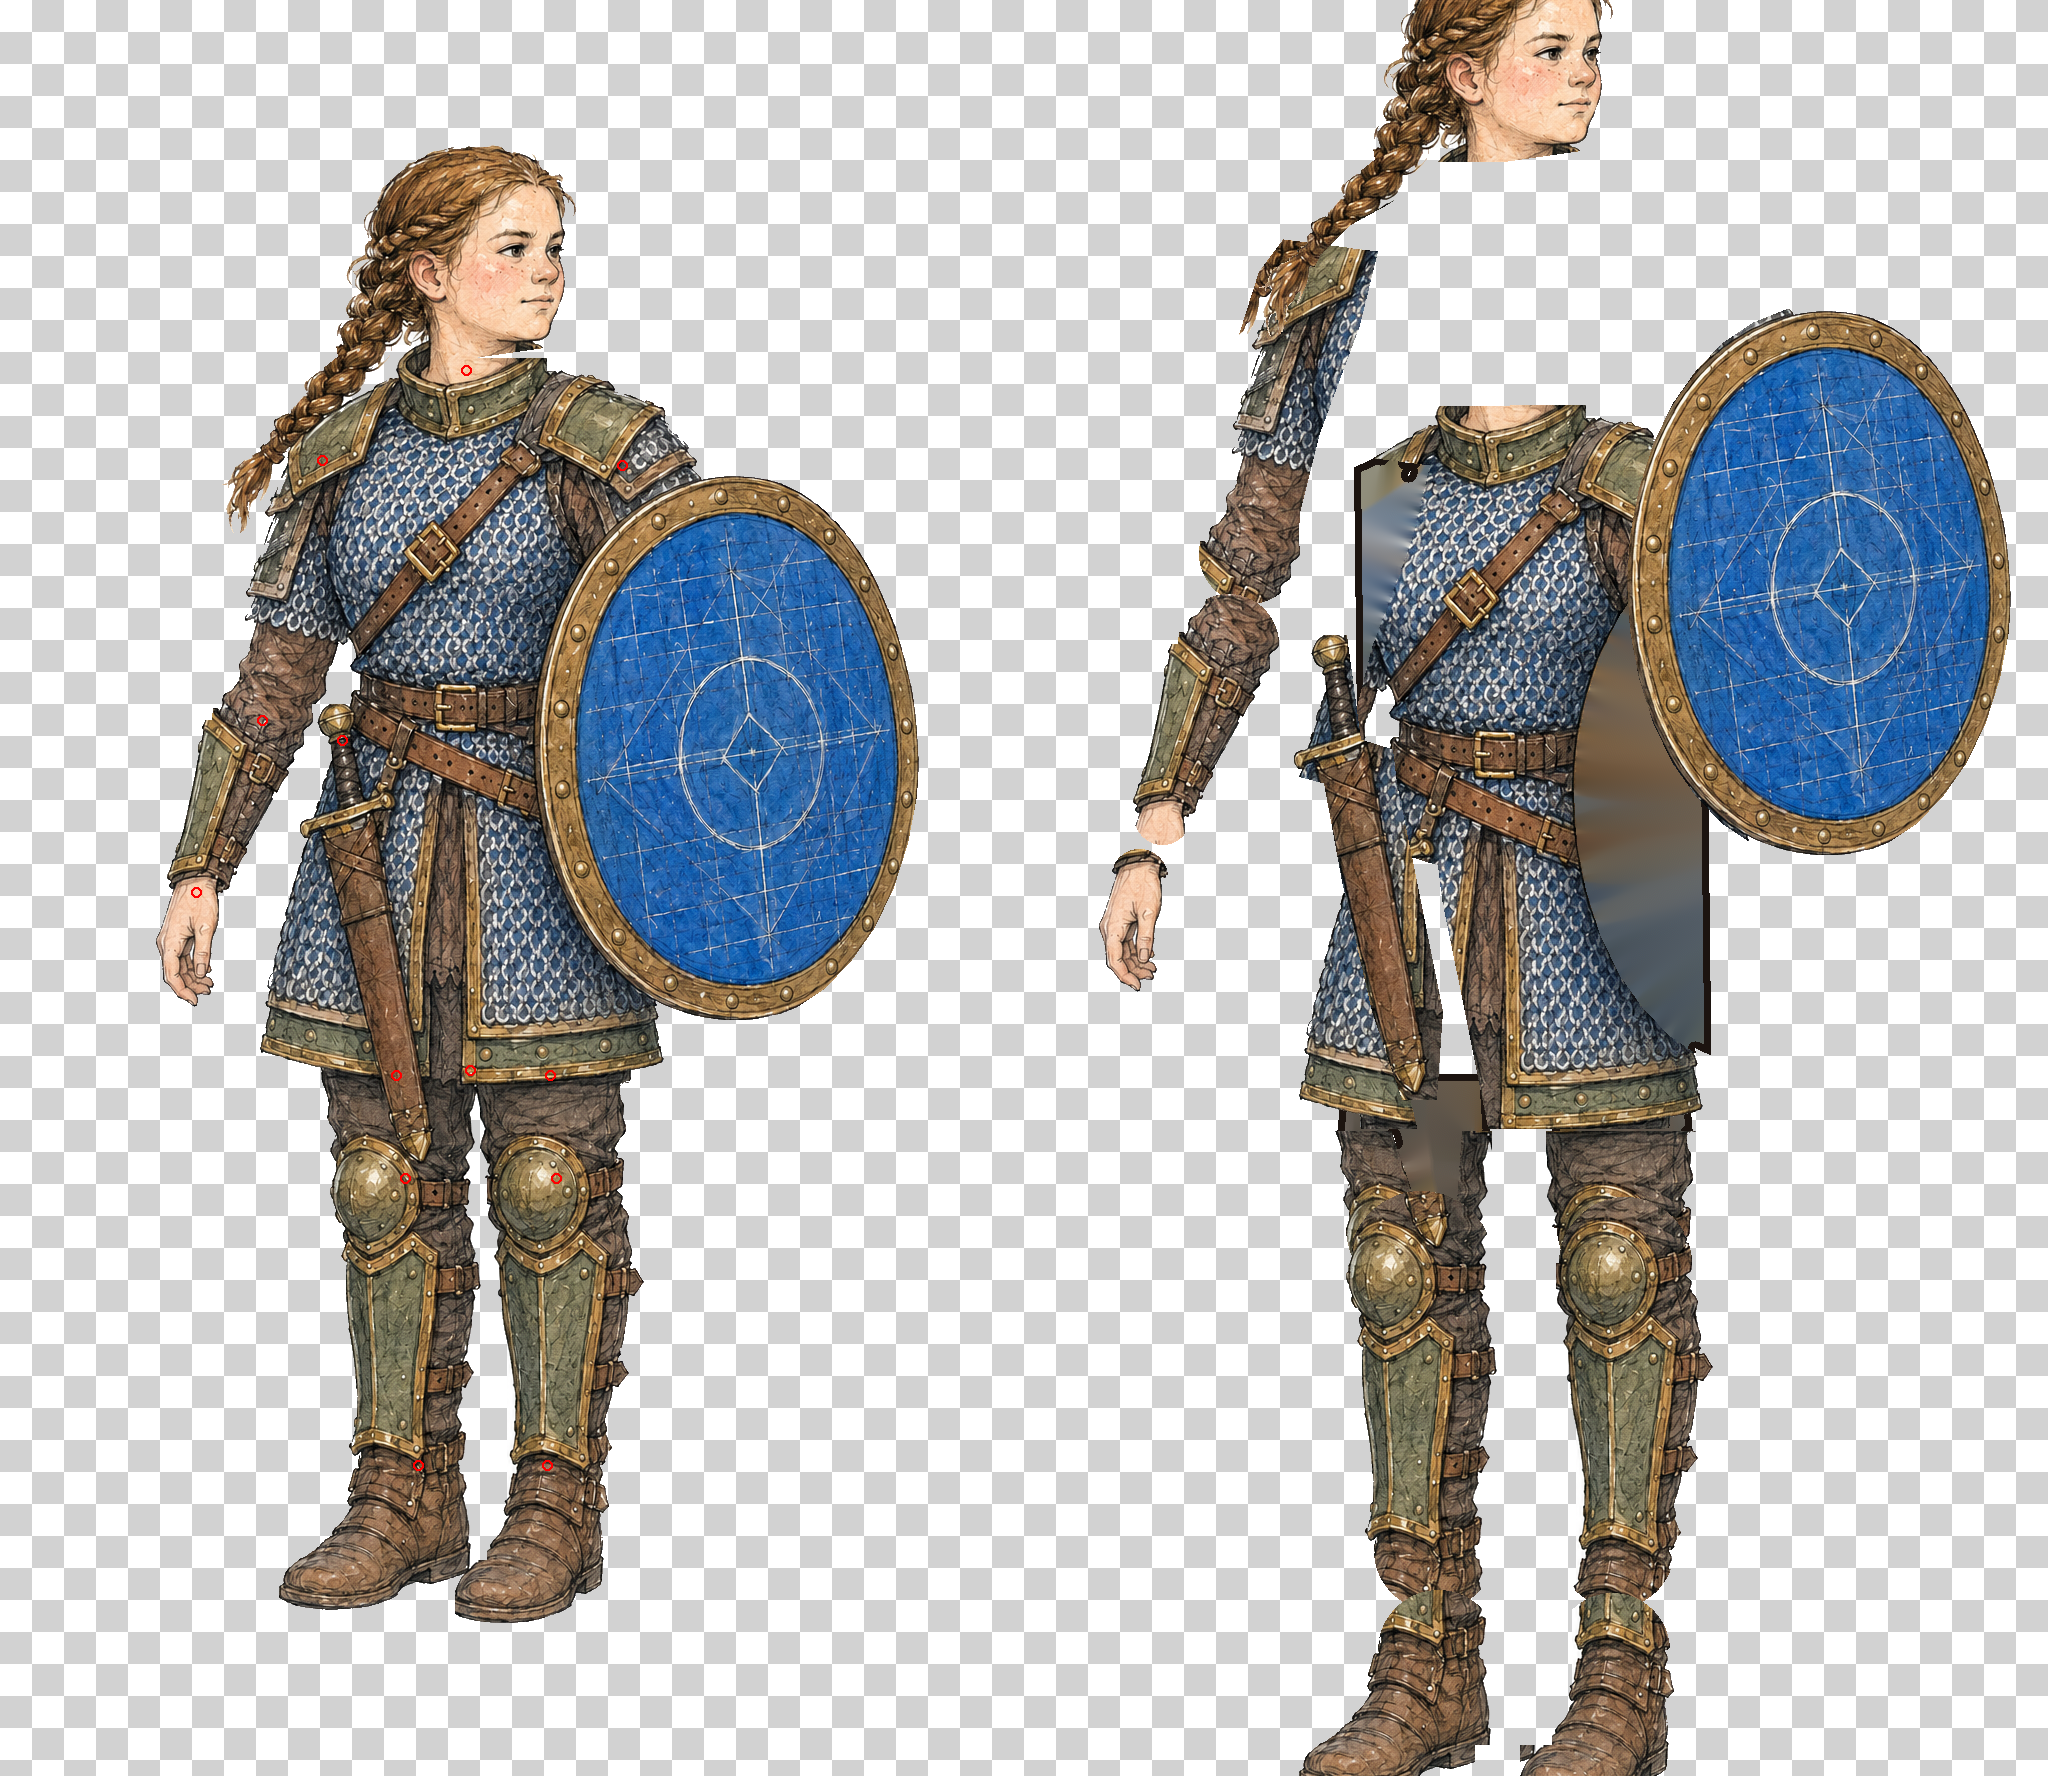
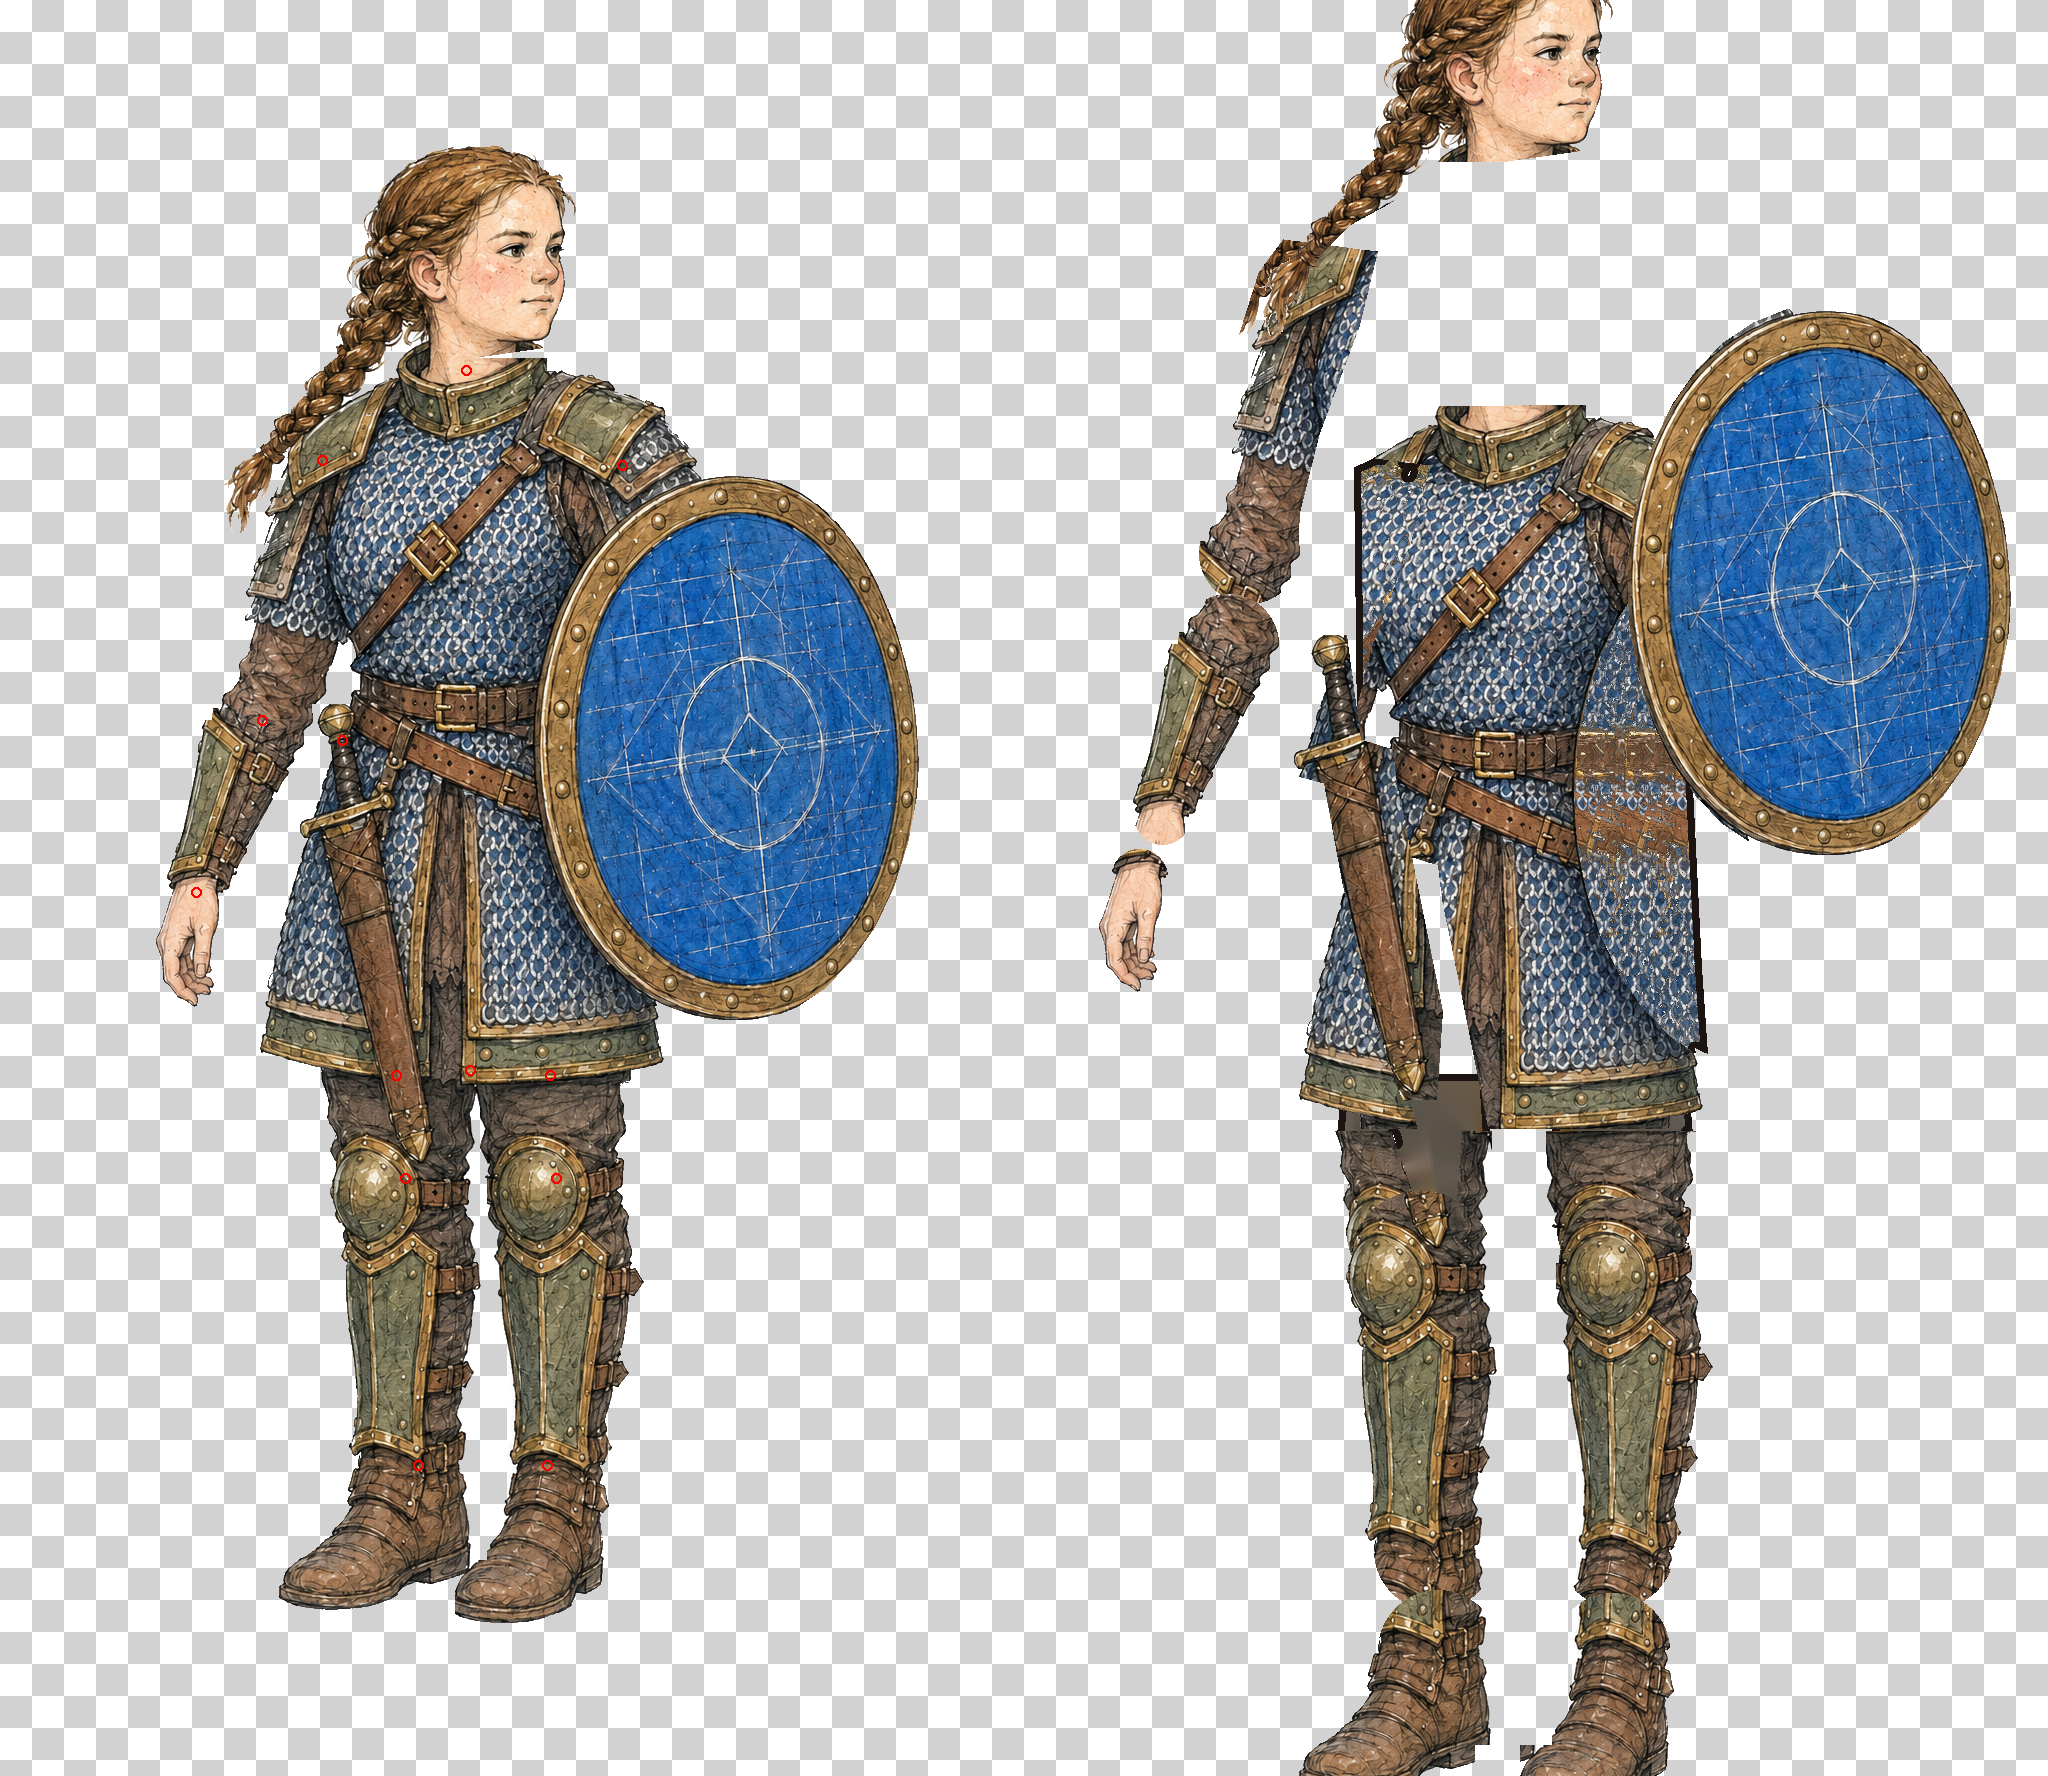
fix(unit-frames): clone texture into hidden fills instead of a flat inpaint smear
A large hidden area (Lena's torso behind the shield) inpainted to a flat grey band that
showed whenever the shield bashed forward. A hidden entry can now name a clone offset, and
the fill tiles the part's own paint from there, so the chain mail and belts continue.

Changed region(s): [[0.75, 0.3407, 0.8438, 0.5884], [0.6562, 0.2477, 0.7188, 0.3716]]

diff --git a/tools/unit-frames/split_parts.py b/tools/unit-frames/split_parts.py
@@ -14,7 +14,9 @@ spec.json:
        "grow": 6,                         #   range, grown into dark outline pixels by this many px
        "exclude": [[[x, y], ...], ...],   # optional: areas removed from the part
        "exclude_parts": ["skirt"],        # optional: pixels owned by other parts, removed
-       "hidden": [[[x, y], ...], ...],    # optional: areas covered by other parts, filled in
+       "hidden": [[[x, y], ...], ...],    # optional: areas covered by other parts, filled in;
+                                          #   an entry may be {"poly": [...], "clone": [dx, dy]}
+                                          #   to copy the part's own texture from that offset
        "pivot": [x, y]}                   # joint position in source pixels
     ]
   }
@@ -105,7 +107,8 @@ def split(spec_path, out_dir):
             own = np.minimum(own, owned[other] ^ 255)
         # hidden areas are covered by other parts at rest, so they never reach past the
         # silhouette
-        hidden = np.minimum(np.array(poly_mask(src.size, part.get("hidden", []))), fg)
+        entries = [h if isinstance(h, dict) else {"poly": h} for h in part.get("hidden", [])]
+        hidden = np.minimum(np.array(poly_mask(src.size, [h["poly"] for h in entries])), fg)
         rgba = rgb.copy()
         alpha = np.maximum(own, hidden)
         fill = (hidden > 0) & (own <= 200)
@@ -115,6 +118,22 @@ def split(spec_path, out_dir):
             known = (own > 200) & (hsv[..., 2] >= DARK)
             painted = cv2.inpaint(rgba, (~known).astype(np.uint8) * 255, 5, cv2.INPAINT_TELEA)
             rgba[fill] = painted[fill]
+            # inpainting smears a large area into a flat grey; where the spec names an offset,
+            # tile the part's own paint from there instead (chain mail stays chain mail)
+            for h in entries:
+                if "clone" not in h:
+                    continue
+                todo = fill & (np.array(poly_mask(src.size, [h["poly"]])) > 0)
+                ys, xs = np.nonzero(todo)
+                dx, dy = h["clone"]
+                for step in range(1, 6):
+                    if not len(ys):
+                        break
+                    sx, sy = xs + step * dx, ys + step * dy
+                    ok = (sx >= 0) & (sx < src.width) & (sy >= 0) & (sy < src.height)
+                    ok[ok] = known[sy[ok], sx[ok]]
+                    rgba[ys[ok], xs[ok]] = rgb[sy[ok], sx[ok]]
+                    ys, xs = ys[~ok], xs[~ok]
             # where the filled area becomes the part's edge, draw the sticker outline again
             solid = (alpha > 127).astype(np.uint8)
             k = cv2.getStructuringElement(cv2.MORPH_ELLIPSE, (2 * OUTLINE + 1,) * 2)
